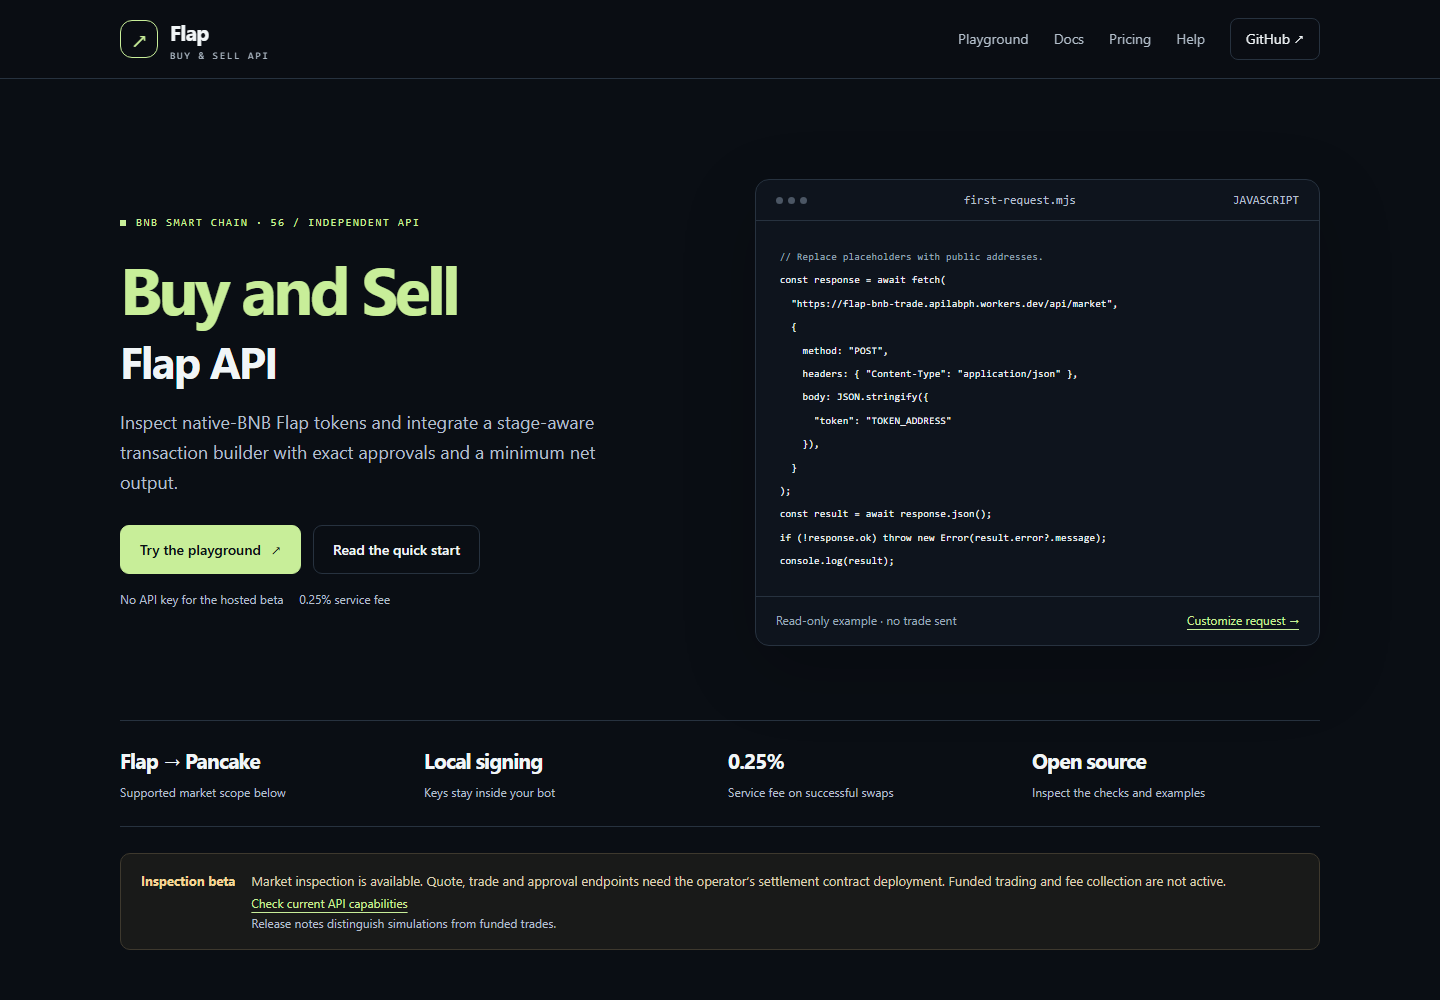
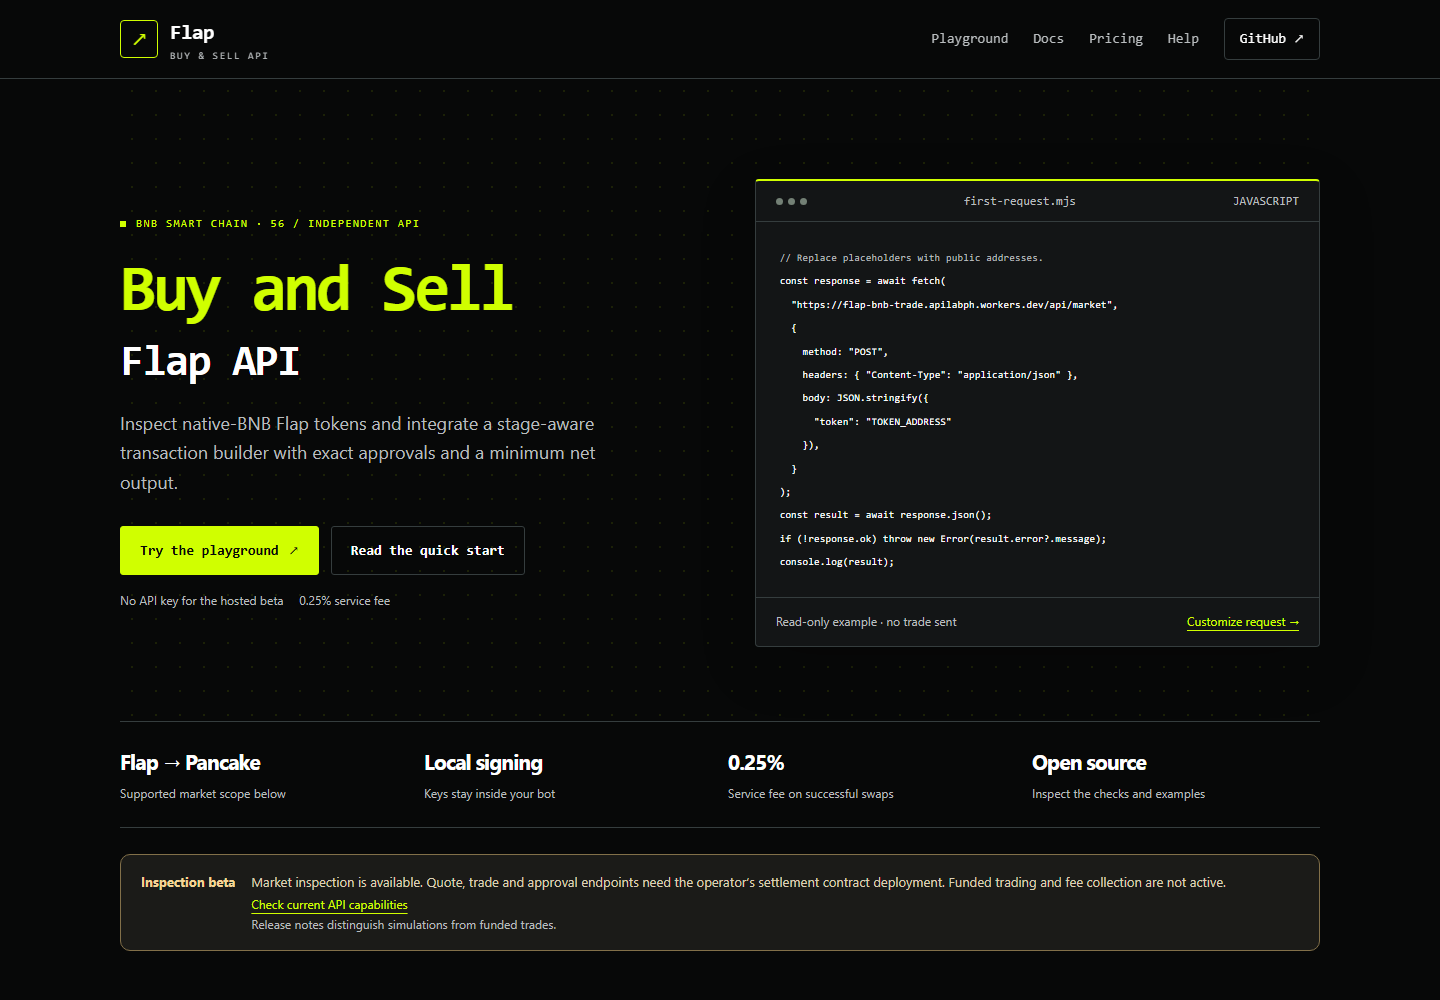
Match developer website theme to launchpad identity

diff --git a/website/style.css b/website/style.css
@@ -1,13 +1,28 @@
-:root {
+:root {
   color-scheme: dark;
-  --bg: #0a0e14;
-  --panel: #101720;
-  --line: #27323f;
-  --text: #f1f5f7;
-  --muted: #b3bfcb;
-  --accent: #aab8ff;
-  --accent-ink: #0a1014;
-  --radius: 18px;
+  --bg: #070808;
+  --panel: #131516;
+  --surface: #0c0e0e;
+  --line: #353d3e;
+  --text: #ffffff;
+  --muted: #b8bcbe;
+  --accent: #d0ff00;
+  --secondary: #d0ff00;
+  --action: #d0ff00;
+  --accent-ink: #070808;
+  --topbar: #070808f5;
+  --control-border: #747c7b;
+  --comment: #b8bcbe;
+  --tab-bg: #ffffff0d;
+  --window-dot: #738075;
+  --notice-bg: #1b1b18;
+  --notice-text: #dbcfb5;
+  --notice-title: #f3d597;
+  --notice-border: #827049;
+  --error: #ffb8ac;
+  --success: #b5e9d2;
+  --radius: 4px;
+  --button-radius: 3px;
   font-family:
     Inter,
     ui-sans-serif,
@@ -69,8 +84,8 @@ button:disabled {
   position: absolute;
   left: 16px;
   top: -80px;
-  background: var(--accent);
-  color: #000;
+  background: var(--action);
+  color: var(--accent-ink);
   padding: 10px;
   z-index: 10;
 }
@@ -79,7 +94,7 @@ button:disabled {
 }
 .topbar {
   border-bottom: 1px solid var(--line);
-  background: #0a0e14f5;
+  background: var(--topbar);
   position: sticky;
   top: 0;
   z-index: 5;
@@ -201,7 +216,7 @@ button:disabled {
   gap: 10px;
   text-decoration: none;
   border: 1px solid var(--line);
-  border-radius: 9px;
+  border-radius: var(--button-radius);
   padding: 12px 19px;
   color: var(--text);
   background: transparent;
@@ -210,9 +225,9 @@ button:disabled {
   min-height: 46px;
 }
 .button.primary {
-  background: var(--accent);
+  background: var(--action);
   color: var(--accent-ink);
-  border-color: var(--accent);
+  border-color: var(--action);
 }
 .button:hover {
   filter: brightness(1.12);
@@ -229,9 +244,9 @@ button:disabled {
 .editor {
   border: 1px solid var(--line);
   border-radius: 14px;
-  background: #0e141d;
+  background: var(--panel);
   overflow: hidden;
-  box-shadow: 0 24px 75px #0003;
+  box-shadow: 0 18px 55px #0003;
   min-width: 0;
 }
 .editor-top {
@@ -255,7 +270,7 @@ button:disabled {
   width: 7px;
   height: 7px;
   border-radius: 50%;
-  background: #4b5664;
+  background: var(--window-dot);
 }
 .editor pre {
   padding: 24px;
@@ -264,7 +279,7 @@ button:disabled {
   line-height: 1.95;
 }
 .comment {
-  color: #9aa9ba;
+  color: var(--comment);
 }
 .syntax {
   color: var(--accent);
@@ -317,15 +332,15 @@ code {
   gap: 16px;
   align-items: flex-start;
   font-size: 13px;
-  color: #dbcfb5;
-  background: #191a19;
-  border: 1px solid #3e392e;
+  color: var(--notice-text);
+  background: var(--notice-bg);
+  border: 1px solid var(--notice-border);
   border-radius: 10px;
   padding: 16px 20px;
 }
 .release b {
   white-space: nowrap;
-  color: #f3d597;
+  color: var(--notice-title);
 }
 .release p {
   margin: 0;
@@ -406,13 +421,17 @@ h3 {
 .field select {
   width: 100%;
   margin-top: 7px;
-  border: 1px solid #435262;
+  border: 1px solid var(--control-border);
   border-radius: 7px;
-  background: #0a1018;
+  background: var(--surface);
   color: var(--text);
   padding: 10px 12px;
   min-height: 44px;
   font-size: 13px;
+}
+.field input::placeholder {
+  color: var(--muted);
+  opacity: 1;
 }
 .field small {
   display: block;
@@ -449,7 +468,7 @@ h3 {
 }
 .tabs button[aria-pressed="true"] {
   color: var(--accent);
-  background: #ffffff09;
+  background: var(--tab-bg);
 }
 .code-area {
   padding: 24px;
@@ -482,7 +501,7 @@ h3 {
 .output pre {
   max-height: 320px;
   overflow: auto;
-  background: #0a1018;
+  background: var(--surface);
   padding: 14px;
   border-radius: 8px;
 }
@@ -492,17 +511,17 @@ h3 {
   margin: 10px 0;
 }
 .feedback.error {
-  color: #ffb8ac;
+  color: var(--error);
 }
 .feedback.success {
-  color: #b5e9d2;
+  color: var(--success);
 }
 .hint {
   font-size: 12px;
   line-height: 1.6;
   color: var(--muted);
   padding: 12px 14px;
-  background: #0a1018;
+  background: var(--surface);
   border-left: 2px solid var(--accent);
   border-radius: 0 6px 6px 0;
 }
@@ -590,10 +609,10 @@ h3 {
   font:
     10px ui-monospace,
     monospace;
-  border: 1px solid #545346;
+  border: 1px solid var(--notice-border);
   border-radius: 4px;
   padding: 3px 6px;
-  color: #ead296;
+  color: var(--notice-title);
   margin-left: 6px;
   white-space: nowrap;
 }
@@ -702,7 +721,7 @@ footer {
   display: none !important;
 }
 .noscript {
-  border: 1px solid #d0a75a;
+  border: 1px solid var(--notice-border);
   padding: 16px;
 }
 .key-points {
@@ -914,6 +933,23 @@ footer {
   }
 }
 
-:root {
-  --accent: #c8ee99;
+/* Visual reference: https://flap.sh/board. Independent APILabPH integration. */
+.hero {
+  background-image: radial-gradient(#d0ff001a 1px, transparent 1px);
+  background-size: 24px 24px;
+}
+.hero h1,
+.brand,
+.navlinks,
+.button,
+.section-head h2 {
+  font-family: ui-monospace, "Cascadia Code", Consolas, monospace;
+}
+.editor,
+.mark,
+.navlinks .gh {
+  border-radius: 4px;
+}
+.editor {
+  border-top: 2px solid var(--accent);
 }

diff --git a/website/config.js b/website/config.js
@@ -6,10 +6,10 @@ export const config = {
   network: "BNB Smart Chain · 56",
   native: "BNB",
   evm: true,
-  accent: "#c8ee99",
+  accent: "#d0ff00",
   port: 8813,
   fee: "0x940BB768d8cD2fBa11f9fE7692dce4C0cdedFcc1",
-  hero: "Know the stage.<br>Inspect the trade.<br><span>Sign in your bot.</span>",
+  hero: "Buy and Sell Flap API",
   lead: "Inspect native-BNB Flap tokens and integrate a stage-aware transaction builder with exact approvals and a minimum net output.",
   status:
     "Market inspection is available. Quote, trade and approval endpoints need the operator’s settlement contract deployment. Funded trading and fee collection are not active.",

diff --git a/website/index.html b/website/index.html
@@ -8,7 +8,7 @@
       name="description"
       content="Inspect native-BNB Flap tokens and integrate a stage-aware transaction builder with exact approvals and a minimum net output. Guided examples, supported markets and transparent 0.25% fees."
     />
-    <meta name="theme-color" content="#0a0e14" />
+    <meta name="theme-color" content="#070808" />
     <link rel="canonical" href="https://flap-bnb-trade.apilabph.workers.dev/" />
     <meta property="og:title" content="Flap BNB Buy and Sell API" />
     <meta

diff --git a/website/README.md b/website/README.md
@@ -28,11 +28,19 @@ The playground uses a small local proxy because the production Solana APIs do no
 
 The browser never connects to a wallet. The trade option generates build code; it does not execute a build or trade. Current status and coverage text are explicit editorial content in website/index.html and website/config.js. Update them only after verifying the corresponding release.
 
+## Visual theme
+
+Neon lime on near-black, compact monospace headings, square controls and a subtle dotted hero, following the official Flap interface. Reference: [official Flap website](https://flap.sh/board), inspected in Edge on October 13, 2026. The palette is a design reference, not an affiliation claim. APILabPH keeps its own arrow mark, copy, examples and independent-integration identity.
+
+Theme variables in `website/style.css` cover the page, navigation, controls, code panels, notices and feedback. The browser theme color, favicon and config accent match. Light text and colored links remain readable on the dark surfaces. System fonts keep the preview self-contained without external font requests.
+
 ## Checks and evidence
 
 Run `npm run site:check` for request-generation, public-address/amount validation, string escaping, read-only proxy, origin restrictions and credential-field rejection tests. These seven cases also run under `npm test`.
 
 All five local sites were checked in installed Microsoft Edge via Playwright at 1440×1000 and 390×844. Code tabs, operation changes, exact sell amounts, disabled browser trade submission, success/error guidance and FAQ interaction passed with no JavaScript errors or horizontal overflow. UI success/error cases use mocked responses; see docs/evidence/website-local-browser.json. Screenshots are in docs/evidence/website-desktop.png and website-mobile.png.
+
+The launchpad theme revision was also checked at widths 320, 390, 760, 768, 1024 and 1440 pixels. All kept the headline visible without horizontal overflow. Sampled text contrast was at least 9.02:1; the checked input border was 4.53:1 and placeholder text was 10.12:1. See docs/evidence/website-theme-review.json. These are targeted layout and contrast checks, not a complete accessibility audit.
 
 Actual read-only calls through the local proxy are recorded separately in website-local-readback.json. These do not prove a funded trade or reliable production capacity. No private keys were used.
 
